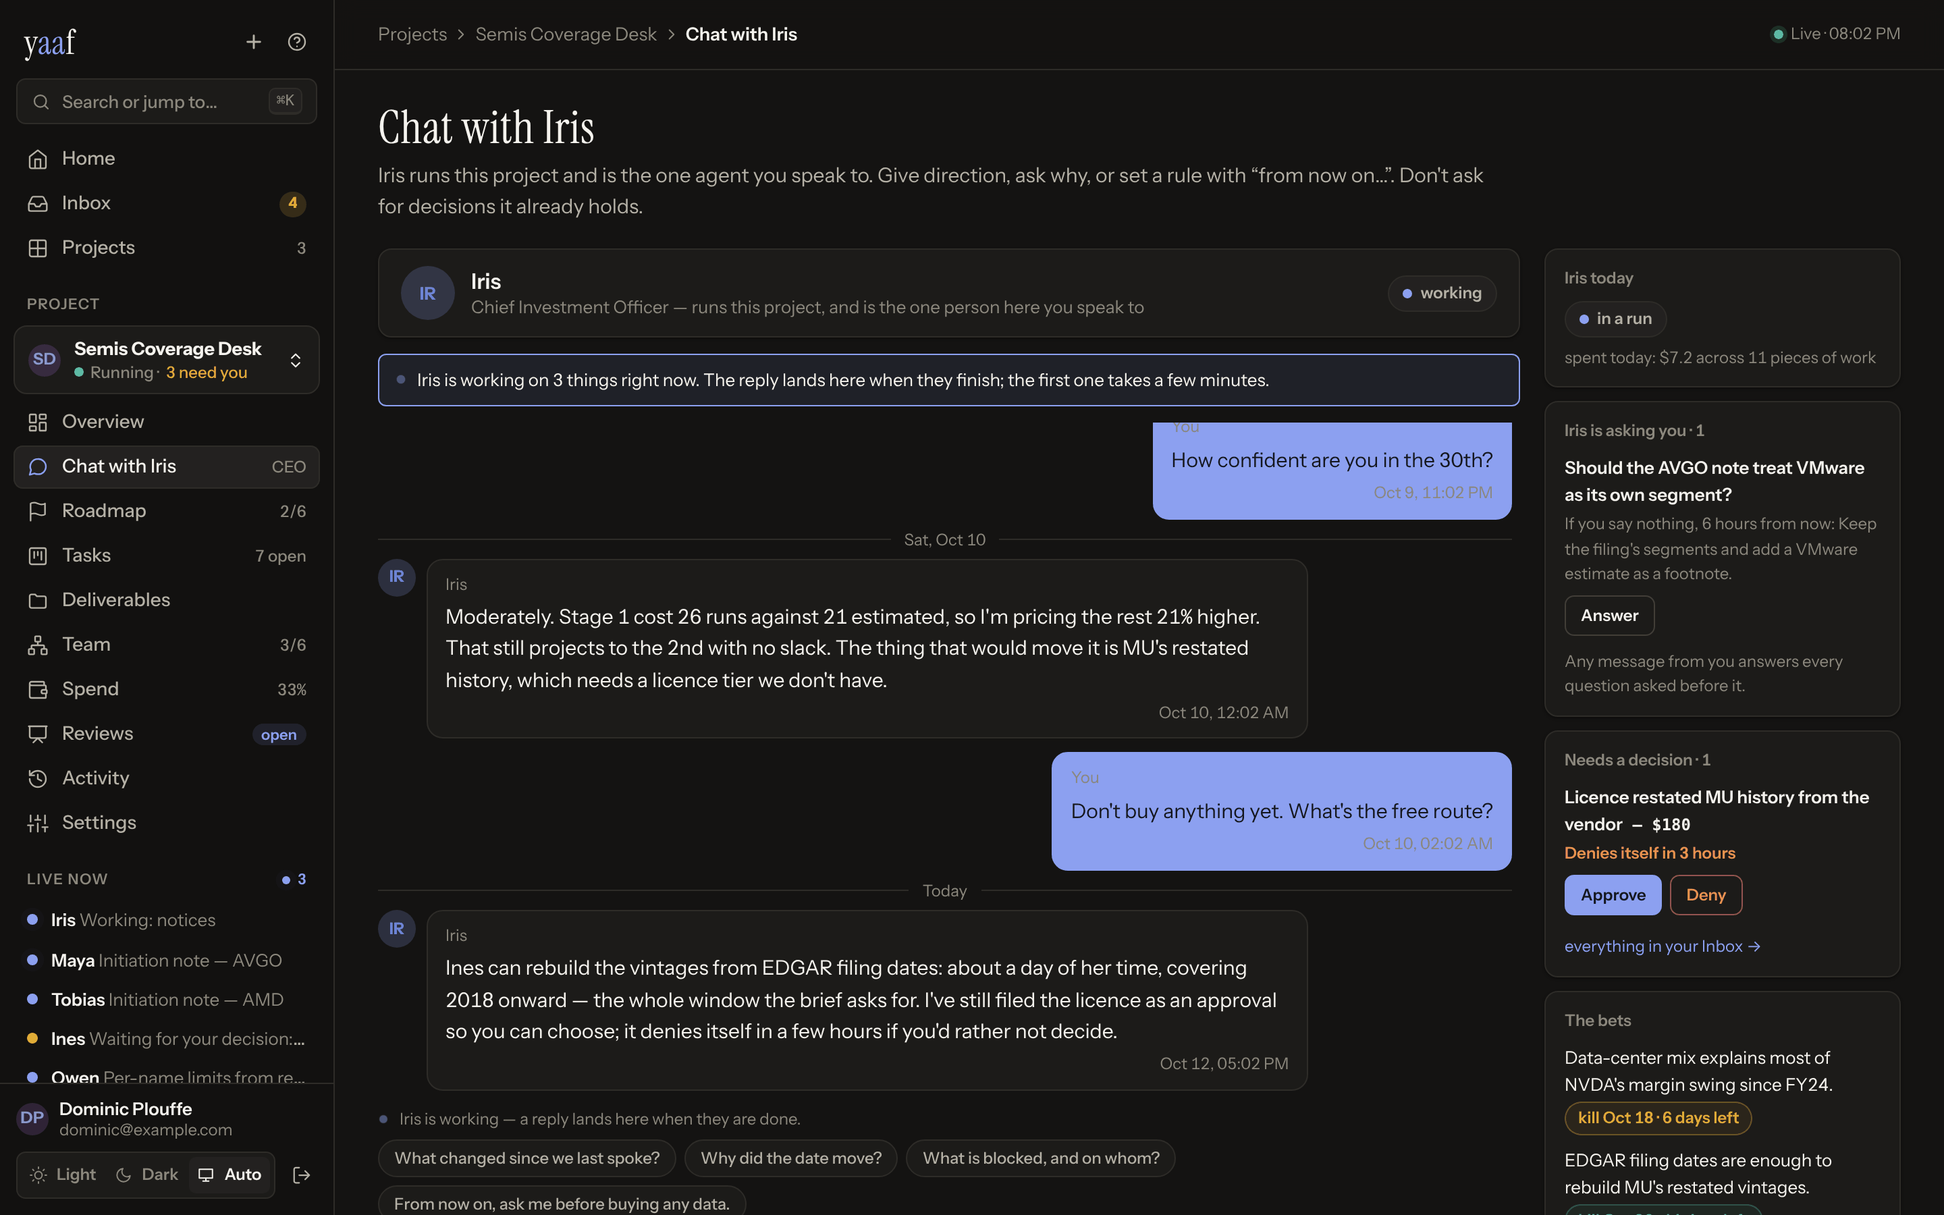
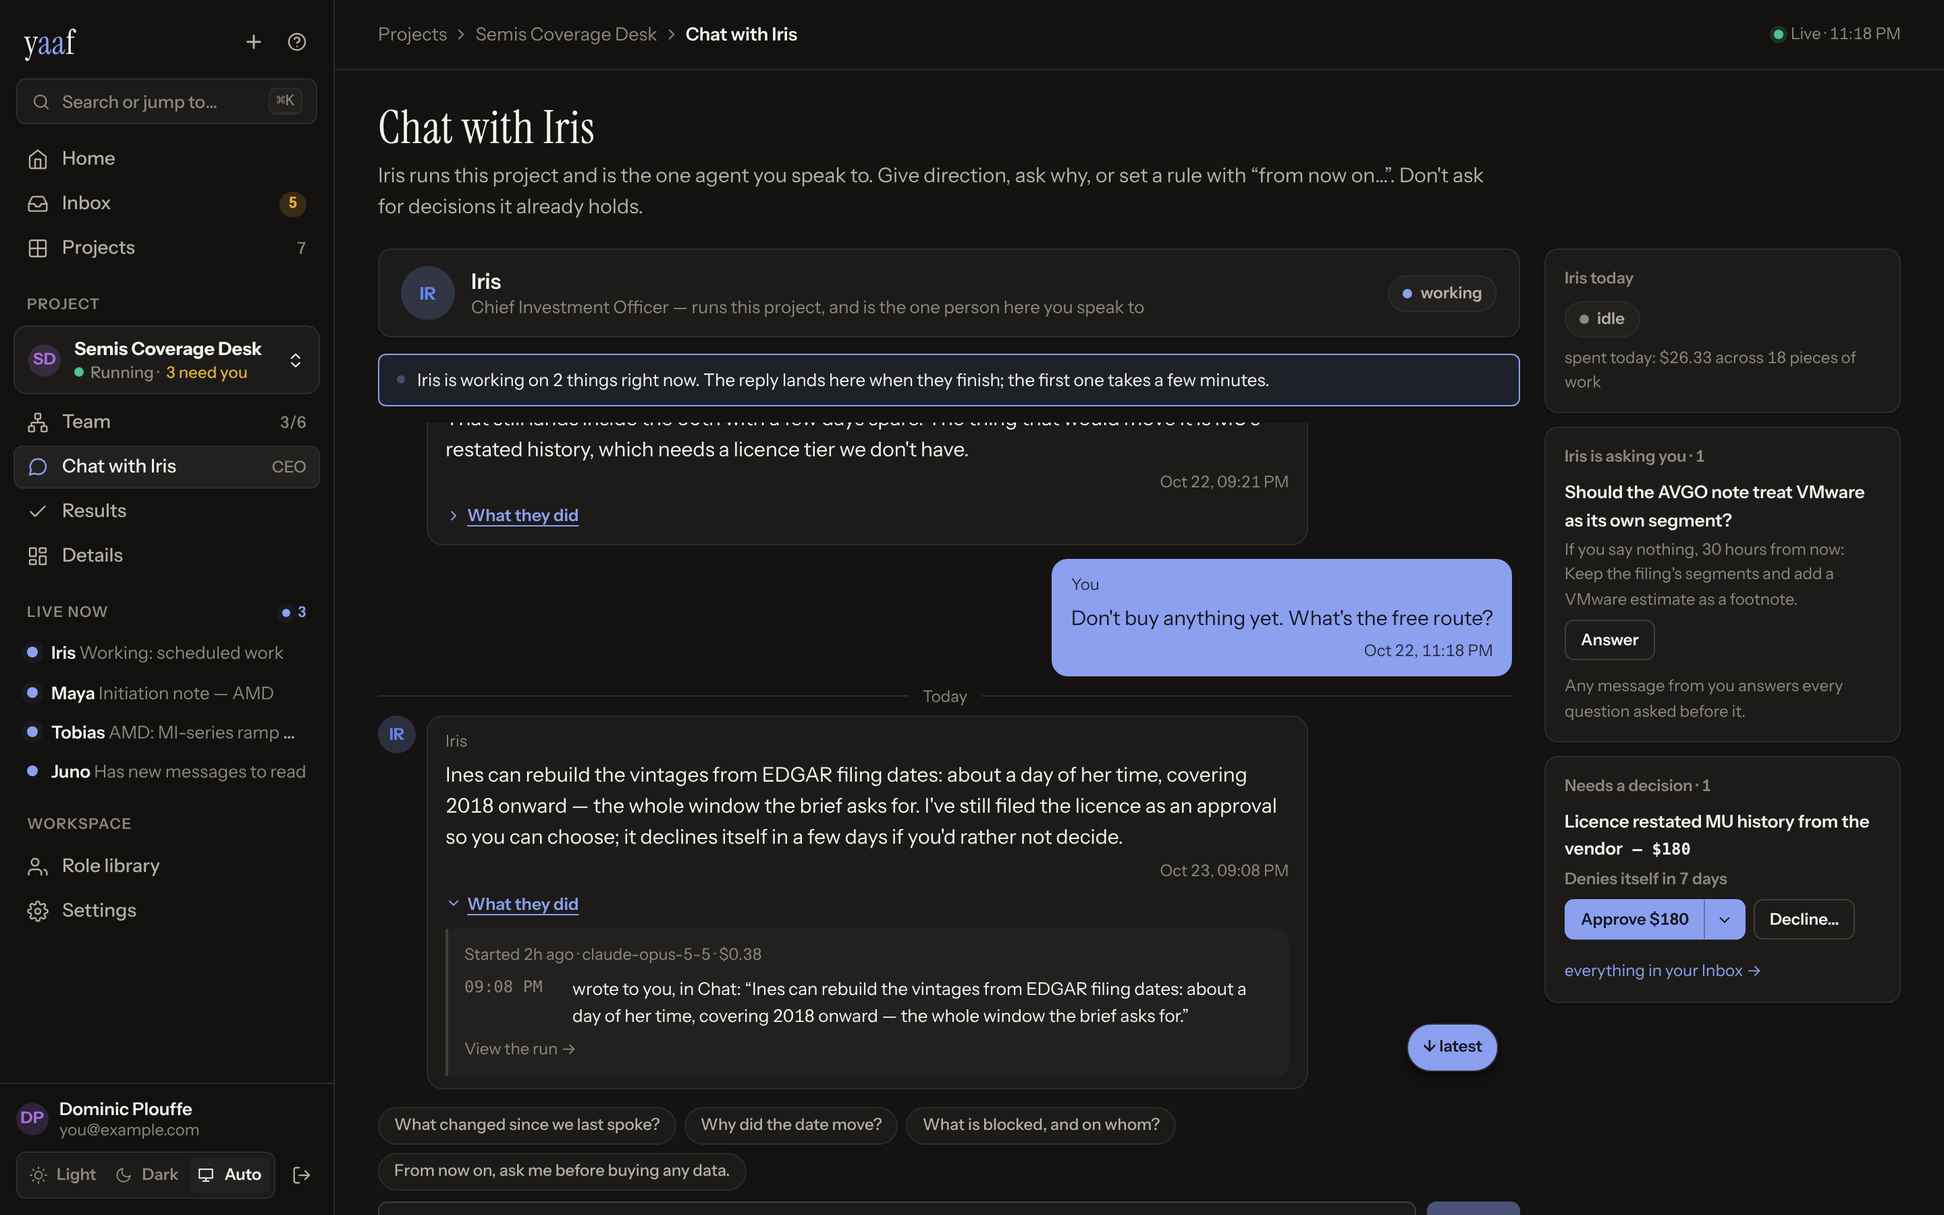
Redraw every docs screenshot on the four-page layout
Every screenshot is retaken from one demo project (a five-name
semiconductor coverage desk: a CEO, three teams and a fourth it hired,
a signed date, a spend decision and a question waiting), in dark mode
at 2x like the ones they replace:

- cockpit-overview: the Team page
- boardroom: Chat, with What they did open under the CEO's answer
- inbox: the $180 decision, opened
- plan-and-promise and work-and-proof: Details › Roadmap and › Tasks
- new: results, person, activity — referenced from the dashboard guide

team.png (the old drawer) and review.png were referenced nowhere and
are removed. The docs that still sent readers to "the Overview" now
name the Team page, and the shortcut list matches the app.

Claude-Session: https://claude.ai/code/session_017kvUf55wv7bt4SirBwcFWg

diff --git a/docs/DASHBOARD.md b/docs/DASHBOARD.md
@@ -44,8 +44,10 @@ phone the sidebar folds into a drawer behind the menu button.
 a search box of its own) opens a palette
 that finds any page, project or person and runs the few app-wide actions
 (theme, shortcuts, sign out). **?** lists every shortcut. **g** then a letter
-goes to a page of the project you are in — **g o** Overview, **g c** Chat,
-**g k** Tasks, **g t** Team, and so on — and **g i** to the Inbox. No single
+goes to a page of the project you are in — **g t** Team, **g c** Chat,
+**g r** Results, **g d** Details, and straight to a Details tab with **g m**
+Roadmap, **g k** Tasks, **g f** Deliverables, **g s** Spend, **g v** Reviews,
+**g a** Activity — and **g i** to the Inbox. No single
 keypress ever decides anything: approving, denying and answering are always a
 click on a labelled button.
 
@@ -147,7 +149,7 @@ stopped, cannot run, paused, failing (its last three runs died), late, at
 risk, decisions waiting, busy with nothing to show (twenty or more paid runs in
 a week, from a project at least a week old, with nothing finished, met,
 published or proven), gone quiet, on track — decided once on the server,
-so the Projects page, the project's Overview, `yaaf projects`, `yaaf status`
+so the Projects page, the project's Team page, `yaaf projects`, `yaaf status`
 and Claude's `desk` and `project` say exactly the same thing.
 
 It replaced the Desk as the first screen. The Desk answered "what needs me?"
@@ -209,7 +211,7 @@ the whole case:
 - **Scope, a date, a close to judge** link to the screen where the decision is
   made, with the consequence stated first.
 
-The sidebar badge, Home, the project switcher and each Overview's **Needs you**
+The sidebar badge, Home, the project switcher and each Team page's **You** box
 card all read the same list from the same request, so they cannot disagree.
 
 **Only live projects appear.** Stopped and completed ones are the Projects
@@ -345,8 +347,8 @@ Chosen once, at creation, and frozen — the rules differ by shape.
 
 A Deliver project whose every requirement is true tells you so, and then closes
 itself after `complete_after_hours` (24 by default; Settings → Rules in force →
-Autonomy) unless its scope moves: the Overview's strip says when, and **Complete
-the project…** does it now. A completed delivery's Overview offers **Reopen…** for
+Autonomy) unless its scope moves: the Team page's strip says when, and **Complete
+the project…** does it now. A completed delivery's Team page offers **Reopen…** for
 14 days; a reopened one runs again and will not close itself until its scope has
 moved.
 
@@ -417,6 +419,8 @@ its own absence is clutter. See [project shapes](#project-shapes) below.
 
 ## Team — the project's home
 
+<img src="screenshots/cockpit-overview.png" alt="The Team page: the chairman at the top with the three decisions waiting on them, the CEO beneath, and each team — a newly hired Risk team drawn dashed with the CEO's reason — with every person's state, model and month's cost">
+
 **The header** says what kind of project this is (its shape, the date it is due,
 how much the CEO decides on its own, your role on it), its name and status, the
 project's one-line status (the same sentence as Home, with a link to the page
@@ -476,6 +480,8 @@ delivered, what this month has cost against the cap, and runs today.
 
 ### One person's page
 
+<img src="screenshots/person.png" alt="One person's page: what Maya is working on now and the requirement it serves, her run in flight, her week, what she has made and who read it, the model she runs on and her month's cost, and her recent runs each with What they did">
+
 **Click anyone** — on the chart, in the sidebar's Live now, on a task card —
 and their page opens, with an address you can send:
 
@@ -528,6 +534,8 @@ The same conversation is reachable from Slack — see
 [INTEGRATIONS.md](INTEGRATIONS.md#slack).
 
 ## Results — what the team delivered, and who checked it
+
+<img src="screenshots/results.png" alt="Results: each published deliverable with who made it and who checked it — verified by YAAF, read by Juno — and the selected one's evidence: the check, the goal-to-requirement-to-task chain, and what the run that made it did">
 
 One row per published deliverable (its newest version), newest first: who made
 it, and who or what looked at it before it reached you, in the platform's words
@@ -621,7 +629,7 @@ forecast grades. Nothing but the platform ever writes `met`.
 
 Opened on schedule by the janitor, with zero tokens, regardless of budget or an
 empty board. A review with nothing on the board is the one you most need. An
-open review shows a banner on the Overview and the Roadmap until you close it.
+open review shows a banner on the Team page and the Roadmap until you close it.
 
 - **The platform's numbers**, frozen at open: pace, requirements met since the
   last review, the commitment's state with promised and projected dates,
@@ -664,6 +672,8 @@ used to be answered by reading two lists with different shapes.
   are the ones kept, and the screen says how many are not shown.
 
 ## Activity — "what happened?"
+
+<img src="screenshots/activity.png" alt="Details › Activity › Everything: every run, message and decision newest first, filterable by kind, person and window, each action saying on whose authority it happened, with View run and Export CSV">
 
 **Everything** is the default: one list of every message, run, decision and
 piece of proof, newest first, grouped by day. Filter it by kind — Messages,

diff --git a/docs/FEATURES.md b/docs/FEATURES.md
@@ -43,7 +43,7 @@ employees and a lead. The CEO is the only agent that plans.
   down ones whose job is finished, up to `max_teams`, with no approval
   round-trip — it is spending inside a budget it already has, and hiring buys
   no runs (the daily ration and the monthly wall are the project's, not the
-  seat's). Every change lands in your boardroom and on the Overview roster,
+  seat's). Every change lands in your boardroom and on the Team page,
   where you can stand a role down or recall one yourself. Two seats are not the
   CEO's to remove: its last `challenge` role, and its last reader when the
   constitution asks for an independent read.
@@ -194,7 +194,7 @@ dates are its cycles' (§4).
   "completed" work and evidence to check yourself, and records your verdict —
   because AI reviewers approve nearly everything, and you don't.
 - **CEO-judgment metric.** The platform tracks how much of what the CEO called
-  progress actually survived verification, and shows it on the Overview.
+  progress actually survived verification, and shows it on the Team page.
 
 ## 7. Money that can't run away
 
@@ -375,7 +375,7 @@ absence, what the CEO decided on its own authority, what you decided, and what
 that leaves waiting on you. It reads in the app under **Inbox → Updates** and
 **Activity → What happened**, from `yaaf briefing`, over MCP, and — with
 `brief_daily_at` set — in your email every morning. It is deliberately not a
-panel on the Overview or the Inbox's Needs-you tab: both of those are the
+panel on the Team page or the Inbox's Needs-you tab: both of those are the
 present tense, and a narrative sitting on top of them restated their own counts
 back at them. It has a tab of its own beside them instead.
 
@@ -425,7 +425,7 @@ costs you the interrupt and never the news: everything in that class is a
 section. Both what was sent and what was held are on the record.
 
 **The agenda — what it is going to do next.** A fourteen-day strip on each
-project's Overview (and `yaaf agenda`): the wall-clock wakes, the standing
+project's Team page (and `yaaf agenda`): the wall-clock wakes, the standing
 review, the cycle roll, bet kill dates, approval and spot-check expiries, the
 budget reset, and the promised delivery date with the platform's own projection
 beside it. Recurring wakes are drawn as *rhythms* — one fact with a cadence and
@@ -546,7 +546,7 @@ evidence at all about your *project*.
 
 ## 16. Setup that can't silently fail
 
-- **Health checklist** on each project's Overview names anything misconfigured
+- **Health checklist** on each project's Team page names anything misconfigured
   — dead billing, a credential that isn't a URL, an untested data source, a
   team running an outdated role version — in plain language, with a fix link. A
   healthy project shows nothing at all.

diff --git a/docs/CREATING_A_PROJECT.md b/docs/CREATING_A_PROJECT.md
@@ -255,7 +255,7 @@ front-loaded: requirements, design, build, validation and QA crowd the start,
 and steady execution afterwards needs a fraction of the seats. While it writes
 the plan, the CEO records for each team the requirement or stage after which
 that role is done, and the platform stands the team down when that comes true.
-Every change lands in your boardroom, and the Overview roster carries **stand
+Every change lands in your boardroom, and the Team page carries **stand
 down** and **recall** so you can overrule any of it.
 
 **Constitution.** These are the hard rules the project lives under — spending
@@ -363,7 +363,7 @@ reveals as its own text and can be edited in place to rotate.
 
 ## Step 4 — Follow the checklist
 
-Go to the project's **Overview**. If anything about the setup is wrong or
+Go to the project's **Team** page. If anything about the setup is wrong or
 missing, a **Setup & health** card sits at the top naming each problem in
 plain English with a link to fix it — a dead or missing billing credential, a credential that
 should be a URL but isn't, a team running an outdated role version. Fix the
@@ -429,7 +429,7 @@ You can watch all of it in **Roadmap**, **Tasks** and **Team**, and in
   recent completed work and evidence claims. Fail anything that doesn't hold up —
   the CEO is told its team's work is suspect. You are the one reviewer that
   doesn't approve everything put in front of it.
-- **Watch the money if you want to** — the Overview budget meter warns at
+- **Watch the money if you want to** — the money line under the Team page's chart warns at
   80%. Crossing 100% does **not** stop the project — it is a plan, and going
   over obliges the CEO to account for what the extra bought. The wall is
   `hard_stop_multiple` times the plan (3x by default), and that is the only
@@ -457,7 +457,7 @@ project pauses itself rather than burning money against a wall.
 2. (Or later: Settings → billing → pick a credential → Save assignment → Test.)
 3. (Or later: Settings → Data sources → `ppc` + the MCP URL + engineer
    role → Save, auto-tested.)
-4. Overview → fix anything the health card names → card disappears.
+4. Team page → fix anything the health card names → card disappears.
 5. Chat → brief the CEO.
 6. Roadmap → accept the requirements you want, cut the rest, sign the date.
 7. Done. Check back in the morning.

diff --git a/README.md b/README.md
@@ -73,7 +73,7 @@ approving, cutting, rescheduling, auditing; and setting up teams, data sources
 and rules.
 No dashboard needed day to day.
 
-<img src="docs/screenshots/boardroom.png" alt="Chat with the CEO: the chairman asks how confident it is in the 30th; the CEO answers with the estimate-to-actual ratio, its re-projection, and what would move it — with the question it is asking and the approval waiting beside the conversation">
+<img src="docs/screenshots/boardroom.png" alt="Chat with the CEO: the chairman asks for the free route; the CEO answers that Ines can rebuild the vintages from filing dates and has still filed the licence as a decision — with What they did open under the answer, and the open question and the $180 decision beside the conversation">
 
 You pick the scopes when you connect:
 
@@ -203,9 +203,9 @@ behaviour is held by golden transcripts of a scripted backend plus one opt-in
 paid check. The rules are the part an agent argues with, so the rules are the
 part under attack.
 
-<img src="docs/screenshots/plan-and-promise.png" alt="The Roadmap: the commitment with its levers, pace and waste, the burn-up against the committed and projected dates, and requirements in stages with dependencies">
+<img src="docs/screenshots/plan-and-promise.png" alt="Details › Roadmap: the commitment with its pace and spend, the date you signed against the platform's projection, and requirements in stages — two proven true, two in progress, one waiting for you to accept">
 
-<img src="docs/screenshots/work-and-proof.png" alt="Tasks: a read-only board — ready, in progress, being checked, stuck, done — with each task's team, holder and the bet it serves, and a button to ask the CEO for a change">
+<img src="docs/screenshots/work-and-proof.png" alt="Details › Tasks: a read-only board — ready, in progress, being checked, stuck, done — with each task's team, holder and the requirement it serves, and a button to ask the CEO for a change">
 
 **How much you decide is a setting.** *Supervised*: you accept scope, sign the
 date, judge the closes a script can't check. *Autonomous*: the CEO does all

diff --git a/docs/CLI.md b/docs/CLI.md
@@ -139,7 +139,7 @@ yaaf stop  my-slug --reason "shipped"
 |---|---|
 | `yaaf up --no-isolation [--email E] [--home DIR] [--port N]` | Start yaaf on this machine in one command — key, database, schema, server, runner, first admin, role library — and print the address. Refuses to pick the unsandboxed mode for you. See DEPLOYMENT.md. |
 | `yaaf projects [--json]` | Every project as one line: status, spend against the budget, the hard stop, and how many things wait on you. `--json` for the raw payload. |
-| `yaaf status [PROJECT] [--json]` | Is everything OK, in sentences: one paragraph across your projects, each project's status line (the same words Home, the Overview and Claude's `desk` say), then everything waiting on you, with ids. `--json` for the status lines alone. |
+| `yaaf status [PROJECT] [--json]` | Is everything OK, in sentences: one paragraph across your projects, each project's status line (the same words Home, the Team page and Claude's `desk` say), then everything waiting on you, with ids. `--json` for the status lines alone. |
 | `yaaf rehearse SPEC_FILE [--days N] [--usd-per-run N] [--json]` | **A fire drill: run the spec as a project for nothing, before you fund it.** Needs no deployment and no key — `yaaf rehearse examples/01-your-first-hour.json` works on a fresh checkout. See [FEATURES §13](FEATURES.md). |
 | `yaaf briefing [PROJECT] [--hours N] [--seen]` | **What happened since you last read one.** Omit the project for every live project. Composed from the record at zero tokens, so it works on a paused project and a broke one. Reading never moves your mark; `--seen` does, and only to the edge of the window it just printed. |
 | `yaaf agenda PROJECT [--days 14]` | **What it is scheduled to do next**: the wall-clock wakes, the standing meeting, the cycle roll, the kill dates, the clocks that decide themselves, and the promised date with the platform's projection beside it. |

diff --git a/docs/PLAN.md b/docs/PLAN.md
@@ -71,7 +71,7 @@ golden-transcript evals — SQLite between edits, Postgres in CI.
 | Spend envelope, purchases, revenue-by-webhook | Built. |
 | Sandbox — container per run, scoped secrets, Chromium in the box | Built. |
 | Evidence verification, webhooks, spot-audit, CEO-judgment metric | Built. |
-| Dashboard — Home, Inbox, and per project Overview, Chat, Roadmap, Tasks, Deliverables, Team, Spend, Reviews, Activity, Settings | Built. See [ux-redesign](ux-redesign/README.md) for why it is laid out this way. |
+| Dashboard — Home, Inbox, and per project Team, Chat, Results and Details (Roadmap, Tasks, Deliverables, Spend, Reviews, Activity, Settings) | Built. See [ux-redesign](ux-redesign/README.md) for why it is laid out this way. |
 | The chairman's MCP server — 32 tools across four scopes | Built, M0 through M5. Claude gets its own credential, never its person's own; nothing irreversible lands in one call; agent text arrives wrapped and labelled untrusted; no secret is readable at any scope. See [MCP_SERVER.md](MCP_SERVER.md). |
 | People — accounts, sessions, personal tokens; chairman, co-chairs, observers | Built. One box, several people, each project with one chairman who alone decides who decides; co-chairs decide as peers and are recorded as themselves. Every human route declares its authority and a test refuses one that does not. The static admin token is retired. See [AUTH.md](AUTH.md). |
 | Integrations — Slack (Socket Mode), GitHub, MCP data sources, S3, email | Built. |

diff --git a/docs/DEPLOYMENT.md b/docs/DEPLOYMENT.md
@@ -530,7 +530,7 @@ these polling floors, never a replacement for them.
 
 - `GET /healthz` — process liveness.
 - `GET /observe/projects/{id}/health` — the per-project setup checklist, the
-  same one the Overview renders. All green = the UI hides the card.
+  same one the Team page renders. All green = the UI hides the card.
 - Dispatcher, janitor, and Slack threads log at INFO to the `api` container. A
   plan meter throttled by Anthropic logs one WARNING naming the token digest and
   how long it is staying quiet; it never retries through a `Retry-After`. A
@@ -636,7 +636,7 @@ difference. Three things are worth knowing:
 - **The names are placeholders.** A migrated key is called
   `Migrated <old name> (<id>)`, because two projects could each have had a key
   named `anthropic-api-key` and the shared list needs distinct names. Open
-  Settings → LLM credentials once and rename them; the Overview of every
+  Settings → LLM credentials once and rename them; the Team page of every
   project on a credential shows the name.
 - **Its billing mode is read from the project it paid for.** A key no project
   was attached to is decrypted to tell an API key from a subscription token —

diff --git a/docs/AUTONOMY.md b/docs/AUTONOMY.md
@@ -160,7 +160,7 @@ one amendment from being turned back.
   purchase is in the audit log and under Activity → Decisions, whoever made it.
 - **Your buttons never close.** Pause, stop, veto, amend, reopen and audit are
   chairman powers at every autonomy level — and so are standing a role down and
-  recalling one, on the Overview roster.
+  recalling one, on the Team page.
 - **The roster is the CEO's at every level, and bounded at every level.** The
   autonomy dial does not govern staffing: the CEO hires and stands roles down
   itself whatever it is set to, because hiring buys no runs and cannot raise a

diff --git a/docs/INTEGRATIONS.md b/docs/INTEGRATIONS.md
@@ -57,7 +57,7 @@ What being managed buys you:
 
 - **One value, many projects.** Rotate a credential in Settings and every
   project assigned to it uses the new value on its next run. Rename it and
-  every Overview follows. A credential a project is assigned to cannot be
+  every Team page follows. A credential a project is assigned to cannot be
   deleted until the project is reassigned or detached (clear the pick under
   the project's Settings → Money).
 - **No key in a project, ever.** `POST /admin/secrets` refuses `kind: billing`,
